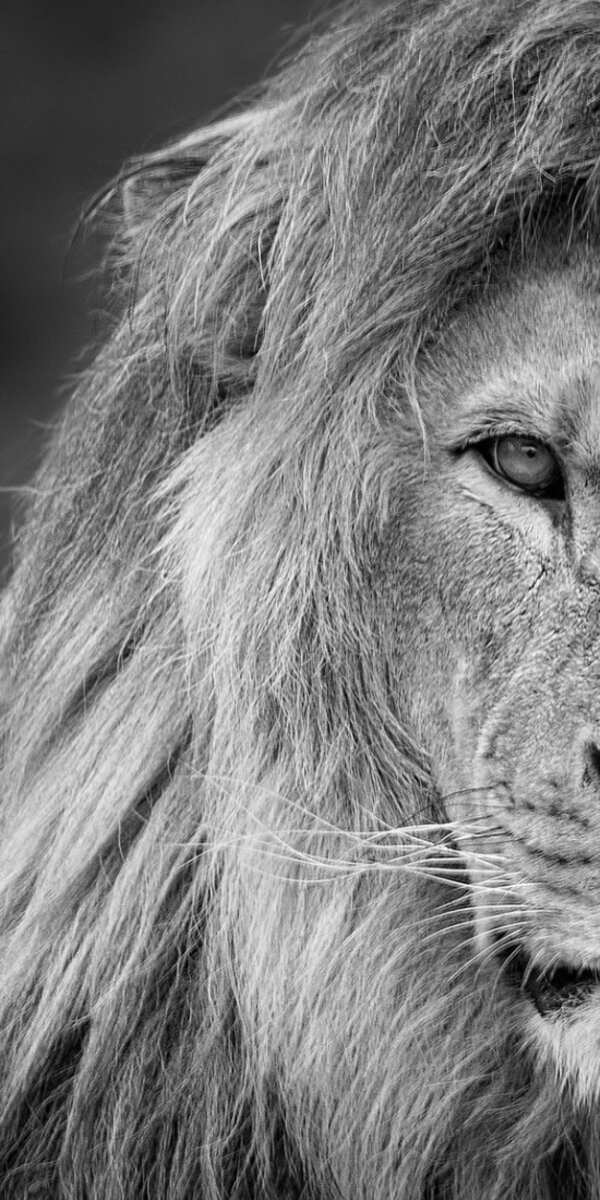
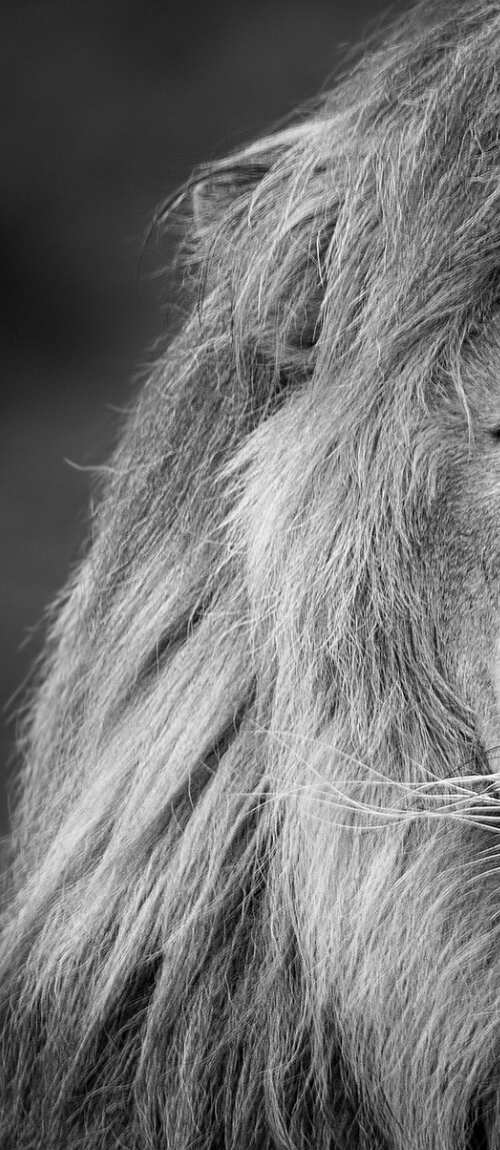
v38: adjust lion crop left + gradient blend

diff --git a/index.html b/index.html
@@ -62,13 +62,13 @@ button{cursor:pointer;border:none;background:none}
 .login-visual-img{
   position:absolute;inset:0;
   width:100%;height:100%;
-  object-fit:cover;object-position:70% center;
+  object-fit:cover;object-position:40% center;
   opacity:0.85;
   filter:grayscale(1) contrast(1.1) brightness(0.9);
 }
 .login-visual::after{
   content:'';position:absolute;inset:0;
-  background:linear-gradient(90deg,transparent 50%,#0a0a0f 100%);
+  background:linear-gradient(90deg,transparent 30%,#0a0a0f 75%);
 }
 
 /* Right: Login form */
@@ -961,7 +961,7 @@ button{cursor:pointer;border:none;background:none}
 <!-- LOGIN PAGE -->
 <div class="login-page" id="loginPage">
   <div class="login-visual">
-    <img class="login-visual-img" src="lion.jpg?v=37" alt="">
+    <img class="login-visual-img" src="lion.jpg?v=38" alt="">
   </div>
   <div class="login-form">
     <div class="login-form-inner">
